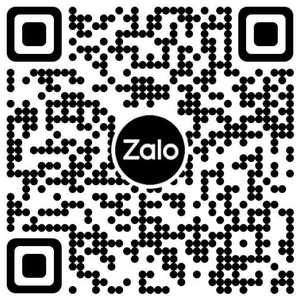
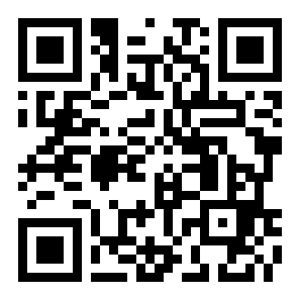
Mã QR Zalo tạo lại cho quét được
Claude-Session: https://claude.ai/code/session_01PNapyKPWghXahMRrFbefjz

diff --git a/public/index.html b/public/index.html
@@ -2773,7 +2773,7 @@ function statsHTML(){
 const SITE={
   email:'holindahouse@gmail.com',
   zalo:'https://zaloapp.com/qr/p/uo7klikr9884',   // link Zalo (lấy từ mã QR)
-  zaloQR:'/images/zalo-qr.png',
+  zaloQR:'/images/zalo-qr.png?v=2',
   facebook:'',     // link Fanpage, ví dụ 'https://facebook.com/didautravel'
   tiktok:'',       // ví dụ 'https://tiktok.com/@didautravel'
   youtube:'',      // ví dụ 'https://youtube.com/@didautravel'
